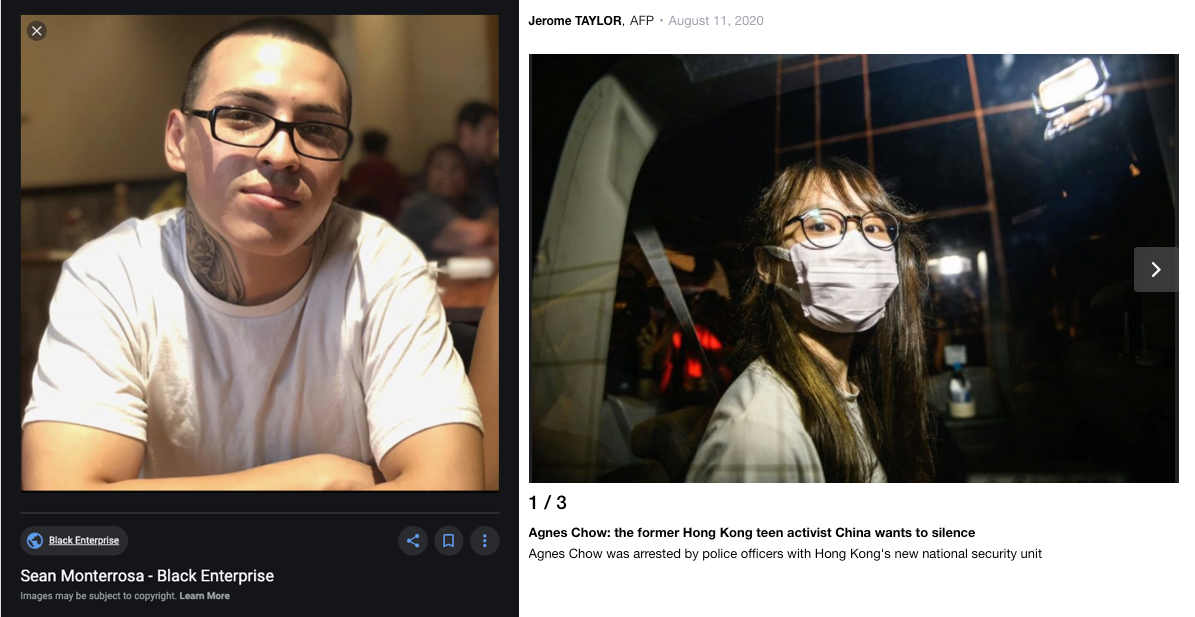
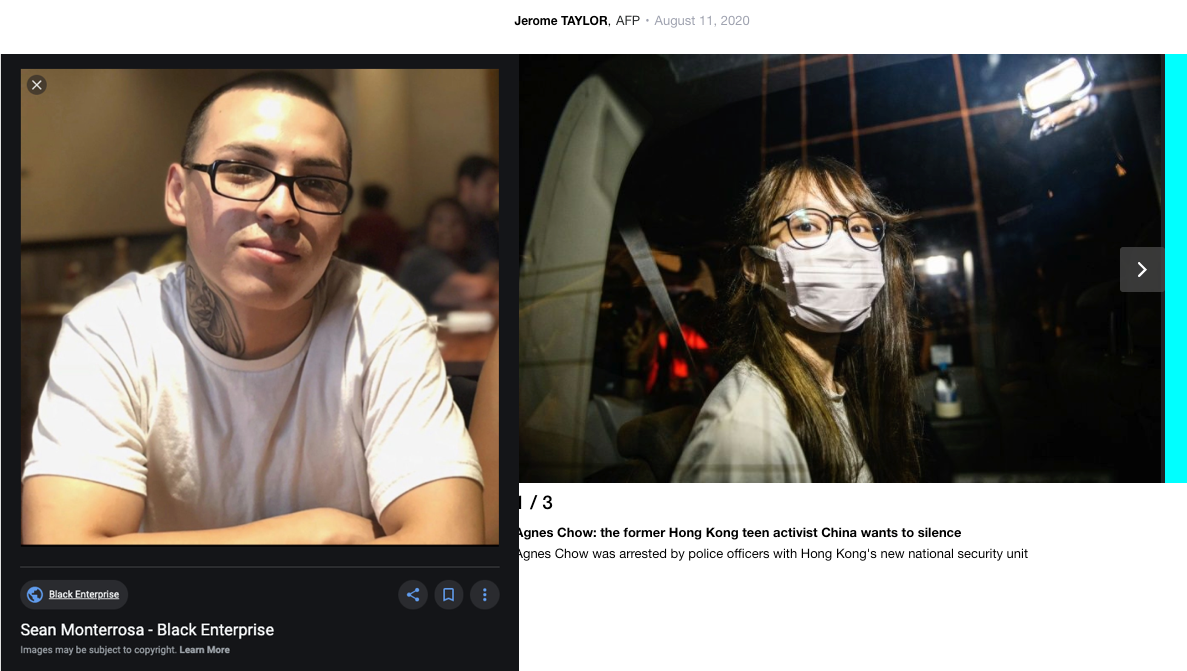
agnes and sean

diff --git a/pages/dates.vue b/pages/dates.vue
@@ -1,0 +1,57 @@
+<template>
+  <div class="slide flex staticbg">
+    <div id="sean_monterrosa" class="relative frame">
+      <img src="/sean.png" />
+      <div class="copy">
+        <h1 class="shadow">SEAN MONTERROSA</h1>
+        <h1 class="shadow">SHOT BY VPD</h1>
+        <h1 class="shadow">6-2-20</h1>
+      </div>
+    </div>
+    <div id="agnes_chow" class="relative frame">
+      <img src="/agnes.png" />
+      <div class="copy">
+        <h1 class="shadow">AGNES CHOW</h1>
+        <h1 class="shadow">ARRESTED BY CCP</h1>
+        <h1 class="shadow">8-10-20</h1>
+      </div>
+    </div>
+  </div>
+</template>
+<style lang="scss" scoped>
+h1 {
+  font-size: 50px;
+  z-index: 2;
+}
+.slide {
+  @apply p-2;
+  display: flex;
+  align-items: center;
+  justify-content: center;
+  background: black;
+}
+.frame {
+  height: 600px;
+  width: 600px;
+  overflow: hidden;
+  padding: 7px;
+  @apply flex items-center justify-center;
+}
+.copy {
+    @apply absolute;
+}
+#sean_monterrosa {
+    background: magenta;
+    .copy {
+        bottom: 270px;
+        left: 0;
+    }
+}
+#agnes_chow {
+    background: cyan;
+    margin-left: 20px;
+}
+.staticbg {
+    background-image: url('/static.jpg');
+}
+</style>
